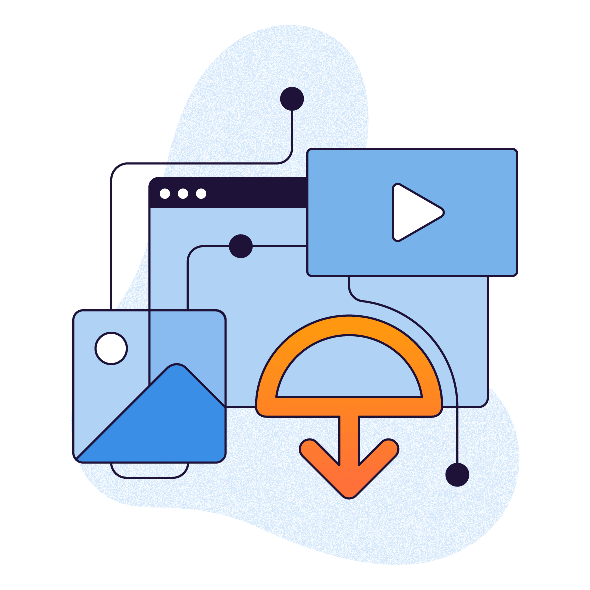
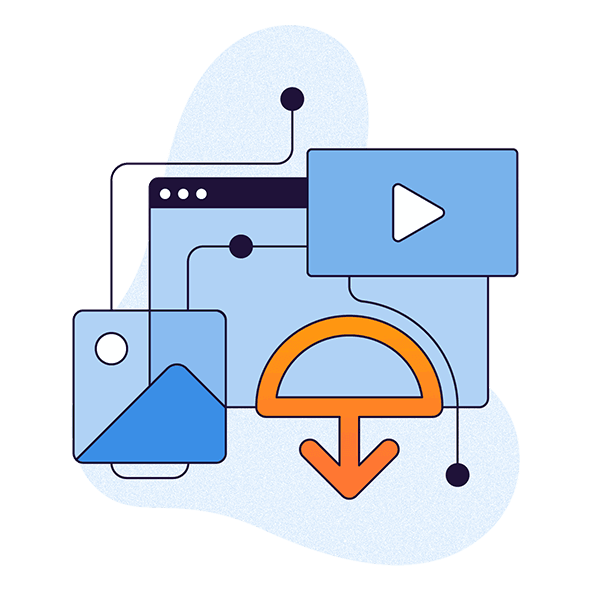
Update copy, update Lockbox modal, optimize images

diff --git a/bedrock/firefox/templates/firefox/accounts-2018.html b/bedrock/firefox/templates/firefox/accounts-2018.html
@@ -62,14 +62,14 @@
 
   {% if l10n_has_tag('firefox_send_20190420') %}
     {% call feature_card(
-      title=_('Take total control of the files you share'),
+      title=_('Share files safely – and privately'),
       image_url='firefox/accounts/fxa-fxsend.png',
       include_highres_image=True,
       aspect_ratio='mzp-has-aspect-1-1',
       class='mzp-l-card-feature-right-half mzp-t-firefox',
       ga_title='Try Firefox Send'
     ) %}
-    <p>{{ _('Feel like a secret agent when you send files online, with a private, encrypted link that ‘self-destructs.’') }}</p>
+    <p>{{ _('Send docs and videos — anything up to 2.5 GB — with a private, encrypted link that ‘self-destructs’ when you say so. And since your large files get deleted from the cloud when you’re done sharing, your stuff doesn’t hang around online forever.') }}</p>
     <a class="mzp-c-button mzp-t-secondary mzp-t-product" href="https://send.firefox.com/?utm_source=www.mozilla.org&amp;utm_medium=referral&amp;utm_campaign=fxa-features-nonfx&amp;utm_content=try-send&amp;entrypoint=mozilla.org-fxa.features" data-link-name="Try Firefox Send" data-link-type="button">{{ _('Try Firefox Send') }}</a>
     {% endcall %}
   {% endif %}
@@ -197,13 +197,7 @@
 
 <aside class="fxa-benefits mzp-u-modal-content">
   <p class="mobile-title mobile-pocket">{{ _('Scan the QR Code to download the Pocket App on your mobile device.') }}</p>
-  <p class="mobile-title mobile-lockbox">
-  {%- if l10n_has_tag('accounts_2018_qrcodes') -%}
-    {{ _('Scan the QR Code to download the Lockbox App on your Apple device.') }}
-  {%- else -%}
-    {{ _('Scan the QR Code to download the Lockbox App on your mobile device.') }}
-  {%- endif -%}
-  </p>
+  <p class="mobile-title mobile-lockbox">{{ _('Scan the QR Code to download the Lockbox App on your mobile device.') }}</p>
   <p class="mobile-title mobile-notes">
   {%- if l10n_has_tag('accounts_2018_qrcodes') -%}
     {{ _('Scan the QR Code to download the Notes App on your Android device.') }}
@@ -246,6 +240,9 @@
 
   <section>
     <ul class="mobile-download-buttons mobile-lockbox">
+      <li class="android">
+          {{ google_play_button(href='https://app.adjust.com/kq8zhhz') }}
+      </li>
       <li class="ios">
         <a href="https://app.adjust.com/kq8zhhz" data-link-type="download" data-download-os="iOS">
           <img src="{{ l10n_img('firefox/ios/btn-app-store.svg') }}" alt="{{ _('Download on the App Store') }}" width="152" height="45">
